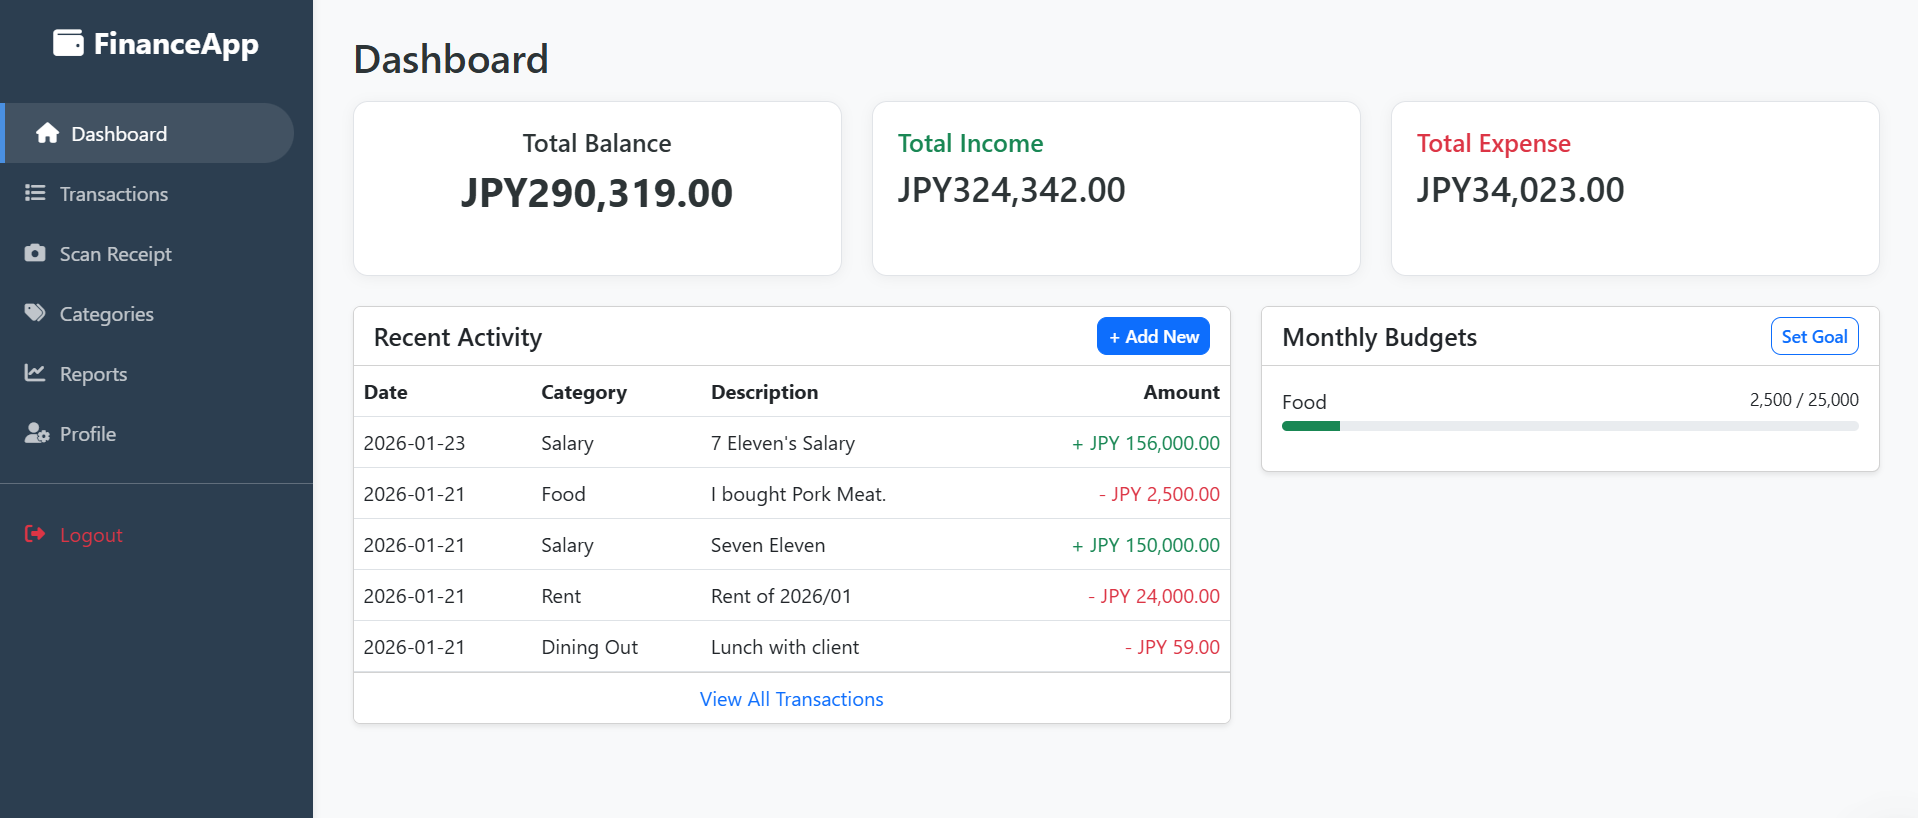
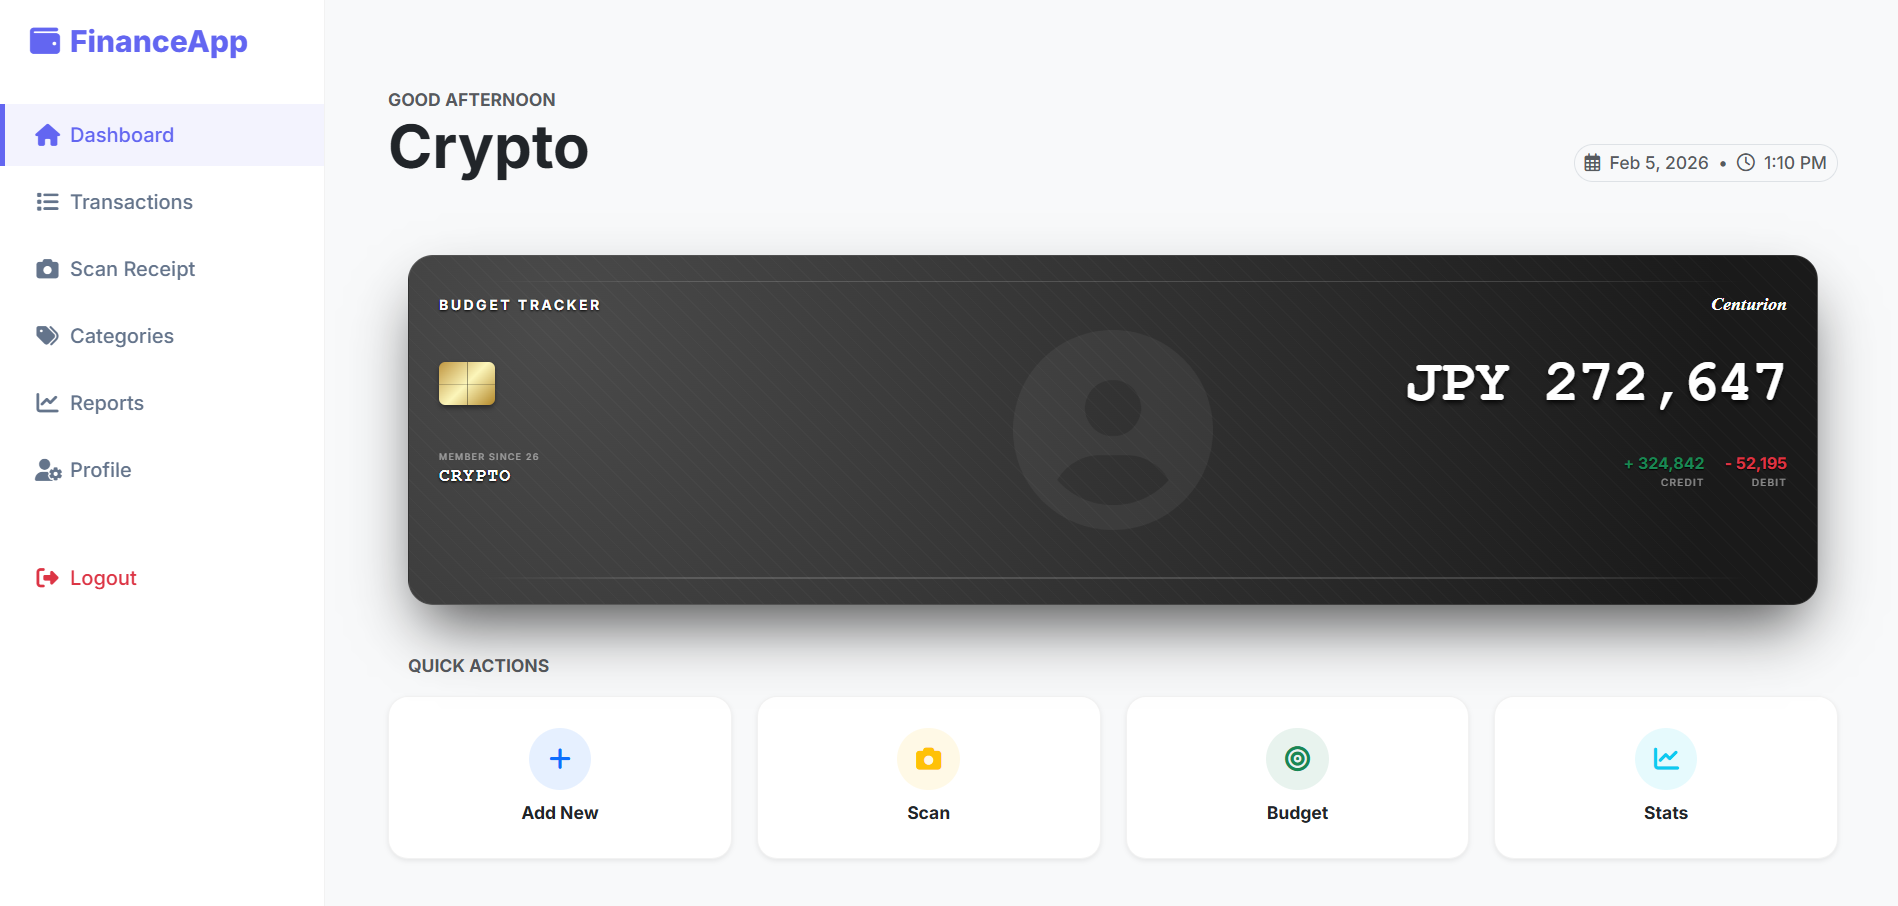
Update dashboard UI and screenshot

diff --git a/index.php b/index.php
@@ -121,6 +121,86 @@ foreach ($all_categories as $cat) {
             border-radius: 0 !important;
         }
     }
+
+    /* --- DESKTOP PREMIUM OPTIMIZATIONS (PC View Only) --- */
+    @media (min-width: 769px) {
+        body {
+            background-color: #f0f2f5;
+            /* Slight gray for depth on desktop */
+            padding-bottom: 20px;
+        }
+
+        /* Center Content & Constrain Width */
+        .container-fluid {
+            max-width: 1200px;
+            margin: 0 auto;
+            padding: 40px 20px !important;
+        }
+
+        /* Desktop Card Styling */
+        .glass-card {
+            background: white;
+            border: 1px solid rgba(0, 0, 0, 0.05);
+            box-shadow: 0 4px 6px -1px rgba(0, 0, 0, 0.05), 0 2px 4px -1px rgba(0, 0, 0, 0.03) !important;
+            transition: transform 0.2s ease, box-shadow 0.2s ease;
+        }
+
+        .glass-card:hover {
+            transform: translateY(-2px);
+            box-shadow: 0 10px 15px -3px rgba(0, 0, 0, 0.05), 0 4px 6px -2px rgba(0, 0, 0, 0.025) !important;
+        }
+
+        /* Header Layout for Desktop */
+        .d-flex.justify-content-between.align-items-end.px-3 {
+            padding-left: 0 !important;
+            padding-right: 0 !important;
+            margin-bottom: 30px !important;
+        }
+
+        /* AMEX Card Desktop Sizing */
+        .position-relative.overflow-hidden.p-4 {
+            min-height: 280px !important;
+            /* Taller card on desktop */
+            max-width: 100%;
+            margin-bottom: 40px !important;
+        }
+
+        /* Quick Actions Grid for Desktop */
+        .quick-actions-scroll {
+            display: grid;
+            grid-template-columns: repeat(4, 1fr);
+            gap: 20px;
+            overflow: visible;
+            padding: 0;
+            margin: 0 0 40px 0;
+        }
+
+        .quick-actions-scroll a {
+            min-width: auto;
+            height: 100%;
+            padding: 25px !important;
+            border: 1px solid rgba(0, 0, 0, 0.05) !important;
+            transition: all 0.3s ease;
+        }
+
+        .quick-actions-scroll a:hover {
+            transform: translateY(-5px);
+            box-shadow: 0 10px 25px -5px rgba(0, 0, 0, 0.1) !important;
+            border-color: transparent !important;
+        }
+
+        /* Headings */
+        h5.fw-bold {
+            font-size: 1.5rem;
+            margin-bottom: 25px !important;
+        }
+
+        /* Balance Text Size */
+        .display-6 {
+            font-size: 3rem !important;
+            /* Larger balance on PC */
+        }
+    }
 </style>
 
 <div class="container-fluid px-0 px-md-3">
